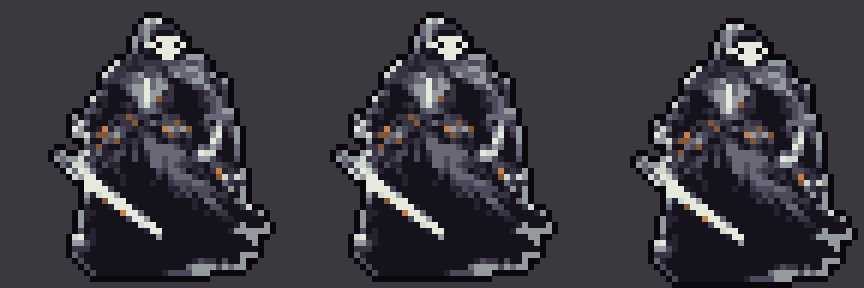
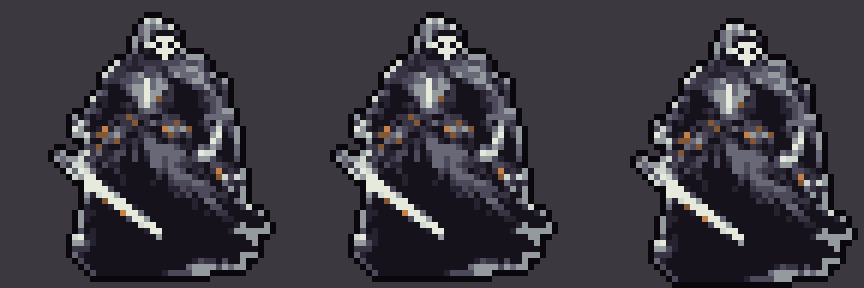
Señor de la Cripta: máscara de calavera centrada en la capucha

diff --git a/tools/generadores/monstruos/senor_cripta.py b/tools/generadores/monstruos/senor_cripta.py
@@ -32,7 +32,7 @@ FONDO = (255, 0, 255)
 PALETA = {"negro": (22, 18, 28), "negro_l": (38, 34, 48), "carbon": (56, 52, 68), "gris_s": (76, 74, 90),
           "gris": (104, 104, 118), "acero": (148, 154, 158), "acero_l": (208, 216, 208), "hueso": (230, 234, 220),
           "cuero": (130, 88, 54), "cuero_l": (196, 130, 72)}
-CARA = (22, 1)  # esquina de la cara en la pose reducida
+CARA = (22, 2)  # esquina de la cara en la pose reducida; la capucha está centrada en la columna 24
 COLORES_CARA = {"c": "carbon", "n": "negro", "h": "hueso"}
 
 DY = {"idle": [0, 1], "walk": [0, 1, 0, 1], "atacar": [0, 1, 0], "golpe": [0]}
@@ -87,7 +87,7 @@ def _pose():
             _figura().save(ruta)
             grid = reducir.pose(ruta, ANCHO, brillo=2.0, saturacion=1.2, contraste=1.35, umbral=40, paleta=PALETA)
         # La cara de calavera, dibujada a mano: al reducir la imagen se queda en una mancha gris
-        for y, fila in enumerate((".ccc..", "cnnnc.", "nhhhhn", "hnhhnh", "nhhhhn", ".nhhn.")):
+        for y, fila in enumerate(("cnnnc", "nhhhn", "hnhnh", "nhhhn", ".nhn.")):
             for x, c in enumerate(fila):
                 if c != ".":
                     grid[CARA[1] + y][CARA[0] + x] = PALETA[COLORES_CARA[c]]
